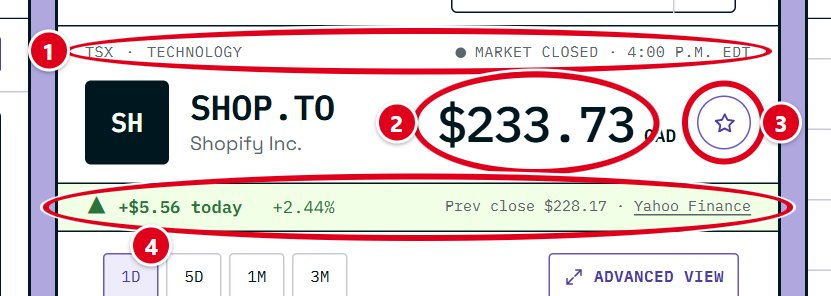
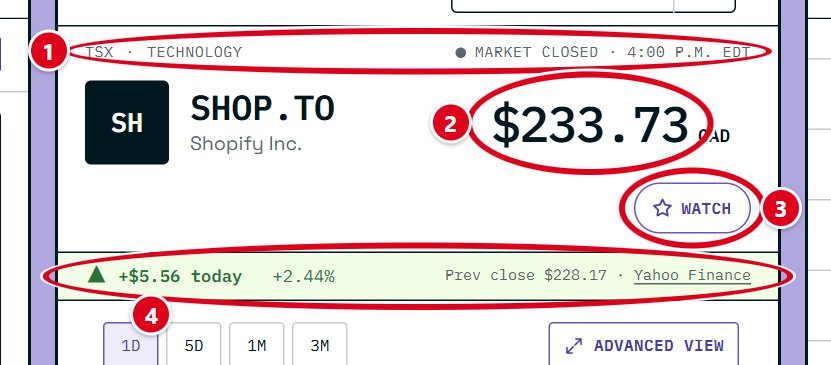
Guide: screenshots and wording for the summary cash total and the Watch button
Every screenshot retaken against the latest Market Lab. Step 3 explains the cash total in the summary legend, and step 6 describes the labelled Watch button.

diff --git a/sim-guide.html b/sim-guide.html
@@ -341,7 +341,7 @@
             <p class="guide-step__number">Step 3</p>
             <h2 id="step-summary-title">Your portfolio at a glance</h2>
             <figure class="guide-shot guide-shot--narrow">
-              <a class="guide-shot__link" href="assets/images/sim-guide/03-portfolio-summary.jpg" aria-label="Open this screenshot full size"><img src="assets/images/sim-guide/03-portfolio-summary.jpg" width="776" height="665" alt="The portfolio summary with the total portfolio value, the daily and total return, the bar that splits the total into holdings, buying power and cash set aside, and the unrealized and realized gains circled." loading="lazy" decoding="async"></a>
+              <a class="guide-shot__link" href="assets/images/sim-guide/03-portfolio-summary.jpg" aria-label="Open this screenshot full size"><img src="assets/images/sim-guide/03-portfolio-summary.jpg" width="776" height="593" alt="The portfolio summary with the total portfolio value, the daily and total return, the bar that splits the total into holdings, buying power and cash set aside with the cash total beside them, and the unrealized and realized gains circled." loading="lazy" decoding="async"></a>
             </figure>
             <ol class="guide-callouts">
               <li>
@@ -362,6 +362,8 @@
                 total into <em>holdings</em> (what you own), <em>buying
                 power</em> (cash you can spend right now), and cash <em>set
                 aside</em> for buy orders that are still waiting (step 12).
+                <em>Cash</em>, on the right, is your buying power and set
+                aside added together.
               </li>
               <li>
                 <strong>Unrealized.</strong> The gain or loss on shares you
@@ -373,8 +375,7 @@
               </li>
             </ol>
             <p>
-              Your cash balance and the time of the price snapshot are along
-              the bottom. The
+              The time of the price snapshot is along the bottom. The
               <span class="guide-inline-icon" aria-hidden="true">?</span>
               buttons explain each number.
             </p>
@@ -426,7 +427,7 @@
             <p class="guide-step__number">Step 6</p>
             <h2 id="step-quote-title">Read the quote</h2>
             <figure class="guide-shot">
-              <a class="guide-shot__link" href="assets/images/sim-guide/06-quote.jpg" aria-label="Open this screenshot full size"><img src="assets/images/sim-guide/06-quote.jpg" width="831" height="296" alt="The quote header with the exchange and market status, the price, the Watch button, and today's change circled." loading="lazy" decoding="async"></a>
+              <a class="guide-shot__link" href="assets/images/sim-guide/06-quote.jpg" aria-label="Open this screenshot full size"><img src="assets/images/sim-guide/06-quote.jpg" width="831" height="365" alt="The quote header with the exchange and market status, the price, the Watch button, and today's change circled." loading="lazy" decoding="async"></a>
             </figure>
             <ol class="guide-callouts">
               <li>
@@ -439,8 +440,9 @@
                 US stocks are converted for you.
               </li>
               <li>
-                <strong>Watch.</strong> The star adds this stock to your
-                team's watchlist (step 7). Press it again to take it off.
+                <strong>Watch.</strong> Adds this stock to your team's
+                watchlist (step 7). The button then says <em>Watching</em>;
+                press it again to take the stock off.
               </li>
               <li>
                 <strong>Today.</strong> How much the price has moved since the
